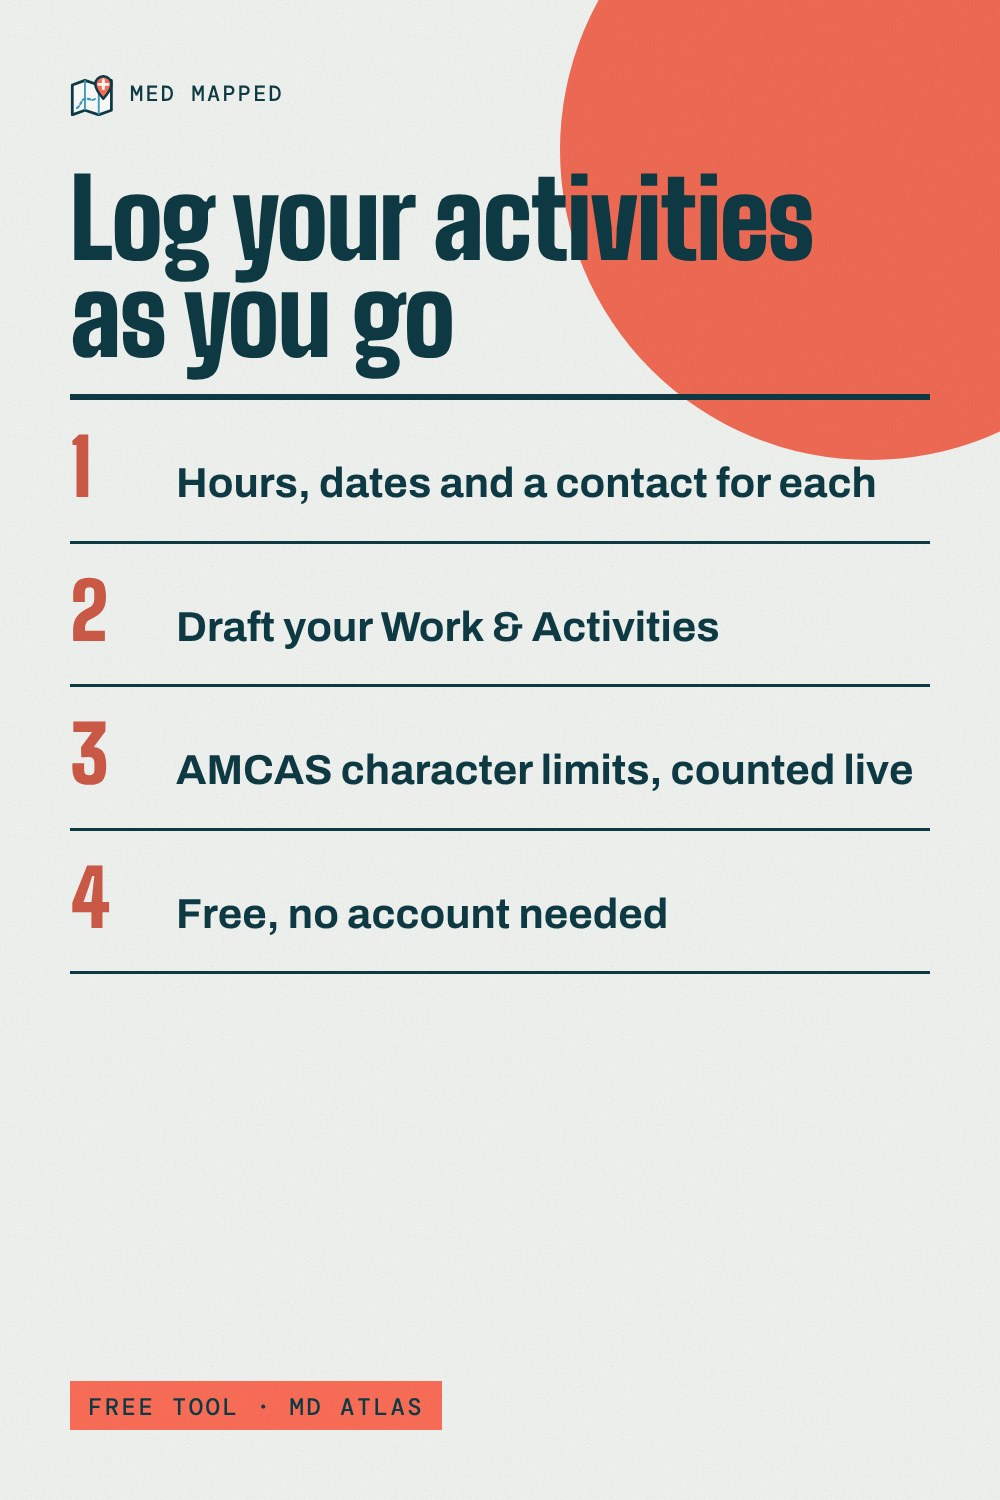
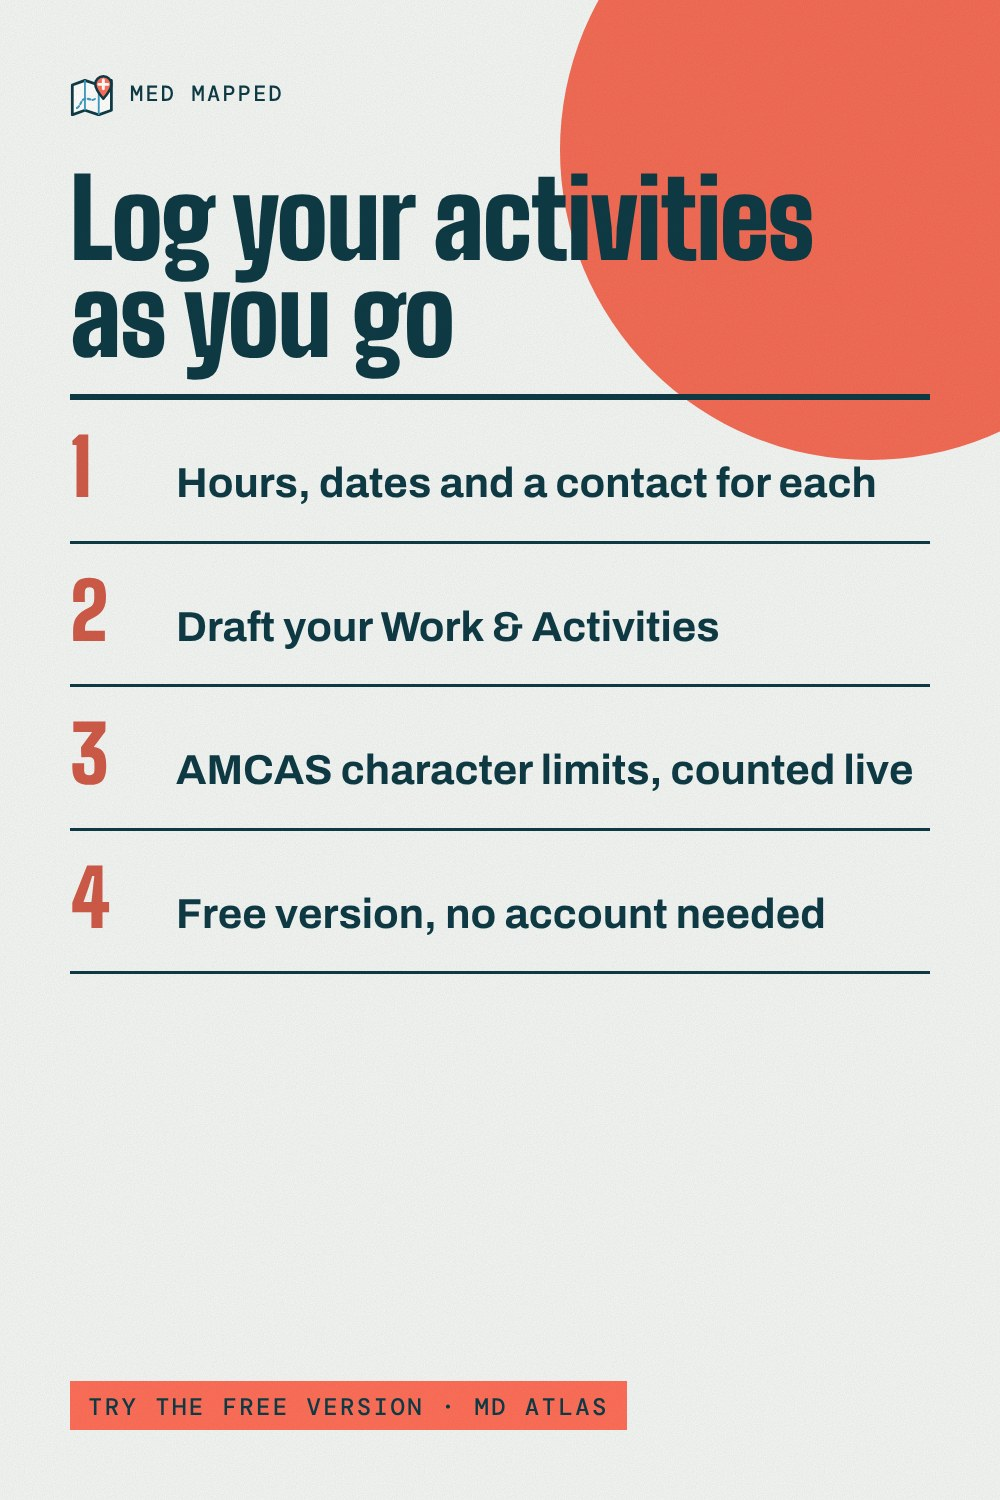
Pitch MD Atlas as "try the free version", not a free app
MD Atlas has a Pro tier, so the blog's MD Atlas blurb, tool cards, home
block, footer and the 3 queued MD Atlas pins (text and images) now invite
readers to try its free version. Runbook records the wording rule.

Claude-Session: https://claude.ai/code/session_015eSsHqEHhxokz1Ri4me2zr

Changed region(s): [[0.496, 0.5827, 0.837, 0.644], [0.124, 0.92, 0.651, 0.9507], [0.279, 0.5827, 0.465, 0.644]]

diff --git a/tools/build.py b/tools/build.py
@@ -95,7 +95,7 @@ def shortcodes(body, post):
         t = a.get("tools", {}).get(m.group(1))
         if not t:
             return ""
-        return (f'<aside class="atlas"><div class="dl-k">Free tool · {html.escape(a["name"])}</div>'
+        return (f'<aside class="atlas"><div class="dl-k">Try the free version · {html.escape(a["name"])}</div>'
                 f'<div class="dl-t">{html.escape(t["title"])}</div><p class="shop-b">{html.escape(t["text"])}</p>'
                 f'<a class="btn" href="{a["url"]}/{t.get("path", m.group(1))}" rel="noopener">Open {html.escape(a["name"])}</a></aside>')
 
@@ -146,7 +146,7 @@ def layout(title, body, desc="", canonical="", image="", kind="website", extra_h
 <nav><a href="{rel('applying/')}">Applying</a><a href="{rel('med-school/')}">Med school</a><a href="{SITE['atlas']['url']}" rel="noopener">MD Atlas</a><a href="{rel('about/')}">About</a><a href="{SITE['etsy_shop']}" rel="noopener">Shop</a></nav></header>
 <main>{body}</main>
 <footer class="foot"><div>{logo(22)} {SITE['name']} · the road to med school, mapped out</div>
-<div><a href="{SITE['atlas']['url']}" rel="noopener">MD Atlas (free app)</a> · <a href="{rel('about/')}">About</a> · <a href="{rel('disclosure/')}">Disclosure</a> · <a href="{rel('privacy/')}">Privacy</a> · <a href="{rel('feed.xml')}">RSS</a></div></footer>
+<div><a href="{SITE['atlas']['url']}" rel="noopener">MD Atlas (try it free)</a> · <a href="{rel('about/')}">About</a> · <a href="{rel('disclosure/')}">Disclosure</a> · <a href="{rel('privacy/')}">Privacy</a> · <a href="{rel('feed.xml')}">RSS</a></div></footer>
 {tracker()}</body></html>"""
 
 
@@ -268,10 +268,10 @@ def main():
             f'<p>{html.escape(SITE["author_bio"])}</p>'
             f'<p class="hero-cta">{cta}<a class="btn ghost" href="{rel("about/")}">About me</a></p></section>'
             f'<section id="latest"><h2 class="sec-h">Latest</h2><div class="grid">' + "".join(card(p) for p in main_posts) + "</div></section>"
-            f'<section class="atlas-home"><div class="atlas-copy"><div class="hero-k">Free app</div>'
+            f'<section class="atlas-home"><div class="atlas-copy"><div class="hero-k">Try the free version</div>'
             f'<h2>{html.escape(SITE["atlas"]["name"])}: the whole application in one place</h2>'
             f'<p>{html.escape(SITE["atlas"]["blurb"])}</p>'
-            f'<p class="hero-cta"><a class="btn alt" href="{SITE["atlas"]["url"]}" rel="noopener">Open {html.escape(SITE["atlas"]["name"])}</a>'
+            f'<p class="hero-cta"><a class="btn alt" href="{SITE["atlas"]["url"]}" rel="noopener">Try the free version</a>'
             f'<a class="btn ghost inv" href="{SITE["atlas"]["url"]}/prompts" rel="noopener">Browse secondary prompts</a></p></div>'
             f'<ol class="atlas-route"><li><b>Planner</b><span>Every week, all four years</span></li><li><b>Primary</b><span>Sophomore year through May</span></li>'
             f'<li><b>Secondaries</b><span>June through September</span></li><li><b>Interviews</b><span>September through March</span></li></ol></section>'

diff --git a/CLAUDE.md b/CLAUDE.md
@@ -11,7 +11,7 @@ Site: static, built by `tools/build.py`, hosted on GitHub Pages, deployed by `.g
 |---|---|
 | Posts | `content/posts/<slug>.md` (front matter + markdown; `[[printable]]` and `[[etsy:key]]` shortcodes; `category: applying` or `med-school`) |
 | Brand (name, logo SVG) | `tools/brand.py` + `site.json` `name`/`tagline`/`author_bio`; the site, printables and pins all read it |
-| MD Atlas (Dylan's free app, repo `dnguyen01pdx/Premed-Project`, Vercel) | `site.json` `atlas` (URL, blurb, tool cards). Linked in the nav, footer and a homepage block; `[[atlas:primary|secondaries|planner]]` drops a card into a post (use at most once, not next to the Etsy card). MD Atlas links back to the blog and shows its newest posts from `feed.xml`; both sites share the same colors and fonts |
+| MD Atlas (Dylan's app with a free version and a paid Pro tier, repo `dnguyen01pdx/Premed-Project`, Vercel) | `site.json` `atlas` (URL, blurb, tool cards). Linked in the nav, footer and a homepage block; `[[atlas:primary|secondaries|planner]]` drops a card into a post (use at most once, not next to the Etsy card). MD Atlas links back to the blog and shows its newest posts from `feed.xml`; both sites share the same colors and fonts |
 | Facts about Dylan | `data/dylan_facts.md`: the only personal details posts may use |
 | Printable specs (game content + pin texts) | `printables/<slug>.json`, rendered by `tools/printables.py` + `tools/render.js` |
 | Pin queue | `data/pins.json`. A pin goes live when the hourly build puts it into `feeds/<board>.xml`; Pinterest auto-publishes from those RSS feeds. A pin spec may add `"link": "https://atlas.medmapped.com/..."` to send the pin to an MD Atlas page instead of its post (it still counts toward its post's 48h spacing) |
@@ -57,6 +57,7 @@ python3 tools/build.py                    # local build into _site/
 - **Fees, dates, limits and rules must come from the official source** (AAMC/AMCAS, AACOMAS, CASPA, AADSAS, VMCAS, ERAS/NRMP, the test makers) and the post names the source and cycle year. Tell readers to confirm before paying. If you can't verify a number, leave it out.
 - **Never invent Dylan's personal story.** First person is fine for opinions and advice ("here's how I'd do it"), but experiences, numbers, schools and anecdotes may only come from `data/dylan_facts.md`. Don't name his school until that file says it's OK.
 - No medical advice, and nothing that claims to be official admissions advice or to speak for a school.
+- MD Atlas has a paid Pro tier, so never call it "a free app" or "a free tool". Pitch it as "try the free version of MD Atlas" (Dylan, 2026-10-29). Saying a specific feature is in the free version is fine.
 - Never invent reviews, testimonials, sales numbers, "readers love this" claims or fake urgency.
 - Pins: no misleading text (the pin must show what the post delivers), no more than 3 hashtags (prefer 0), no repeated identical pins. Respect `site.json` limits (8 pins/day, same post at most every 48 hours). Pinterest spam rules: no mass-repinning, no clickbait, no link-only pins.
 - Designs are made by code, not generative AI imagery. If generative AI imagery is ever used, label it per Pinterest's AI rules.
